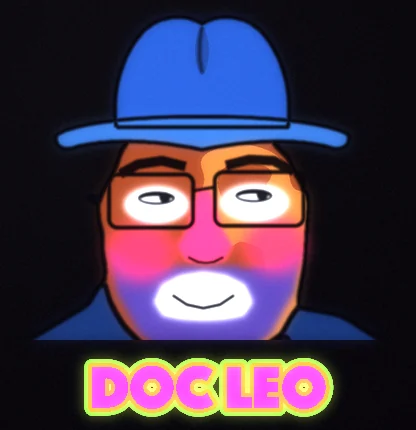
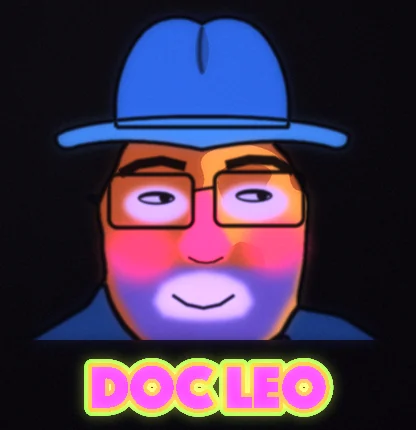
Black-light poster: under the tube Doc Leo's white makeup and the whites of his eyes glow pale purple, not white (the daytime print is unchanged)

Changed region(s): [[0.3438, 0.6047, 0.625, 0.7558], [0.5, 0.393, 0.7188, 0.5442], [0.2812, 0.4233, 0.4688, 0.5442]]

diff --git a/games/kit/scans/blacklight.py b/games/kit/scans/blacklight.py
@@ -72,7 +72,8 @@ INK = {
     'face': (255, 150, 60),
     'lit': (255, 200, 120),
     'red': (255, 50, 110),  # hot pink-red: the sunburned nose and cheeks
-    'white': (238, 242, 255),  # the white makeup, a pale UV glow
+    'white': (238, 242, 255),  # the white makeup (under the tube: UV_WHITE)
+    'eye': (225, 240, 255),  # the whites of the eyes (under the tube: UV_EYE)
     'stubble': (100, 80, 230),  # deep blue-violet: the painted stubble
     'brow': (0, 0, 0),
     'shirt': (200, 60, 255),  # violet
@@ -82,6 +83,10 @@ INK = {
 # makeup and the features stand out on it, as on a real flocked poster
 SHADE = {'hat': 0.5, 'hatlit': 0.6, 'band': 0.95, 'shade': 0.45, 'face': 0.68, 'lit': 0.68, 'red': 1.0, 'white': 1.0, 'stubble': 0.5, 'brow': 0, 'shirt': 0.65, 'jacket': 0.3}
 VELVET = np.array([14, 10, 20], float)
+# under a black light white glows pale purple, not white: these, lit and haloed, come out
+# lavender instead of clipping to white
+UV_WHITE = (150, 122, 200)
+UV_EYE = (140, 118, 190)
 
 
 def silhouette(size: int) -> np.ndarray:
@@ -222,7 +227,7 @@ def features(ink: np.ndarray, level: np.ndarray, black: np.ndarray, look: int = 
         fill(soft_fill(mask(lambda d, sc, k=k: d.ellipse(sc(F[k]), fill=255)), 4), INK['white'], 0.95)
     fill(soft_fill(poly('mouth'), 4), INK['white'], 1.0)
     for k in ('eyeL', 'eyeR'):
-        fill(mask(lambda d, sc, k=k: d.ellipse(sc(F[k]), fill=255)), (225, 240, 255), 0.9)
+        fill(mask(lambda d, sc, k=k: d.ellipse(sc(F[k]), fill=255)), INK['eye'], 0.9)
     lines = mask(lambda d, sc: (
         [d.rounded_rectangle(sc(F[k]), 36, outline=255, width=14) for k in ('lensL', 'lensR')],
         d.line([(656, 640), (716, 630)], fill=255, width=12),  # the bridge
@@ -372,7 +377,11 @@ def compose(night: bool, look: int = 0) -> Image.Image:
     ink = np.zeros((H, W, 3))
     level = np.zeros((H, W))
     black = np.zeros((H, W))
+    day_white = INK['white'], INK['eye']
+    if night:
+        INK['white'], INK['eye'] = UV_WHITE, UV_EYE
     ink[:ART_H], level[:ART_H], black[:ART_H] = portrait(look)
+    INK['white'], INK['eye'] = day_white
     ti, tl = title((W, H - ART_H))
     ink[ART_H:], level[ART_H:] = ti, tl
     base = velvet(rng)
